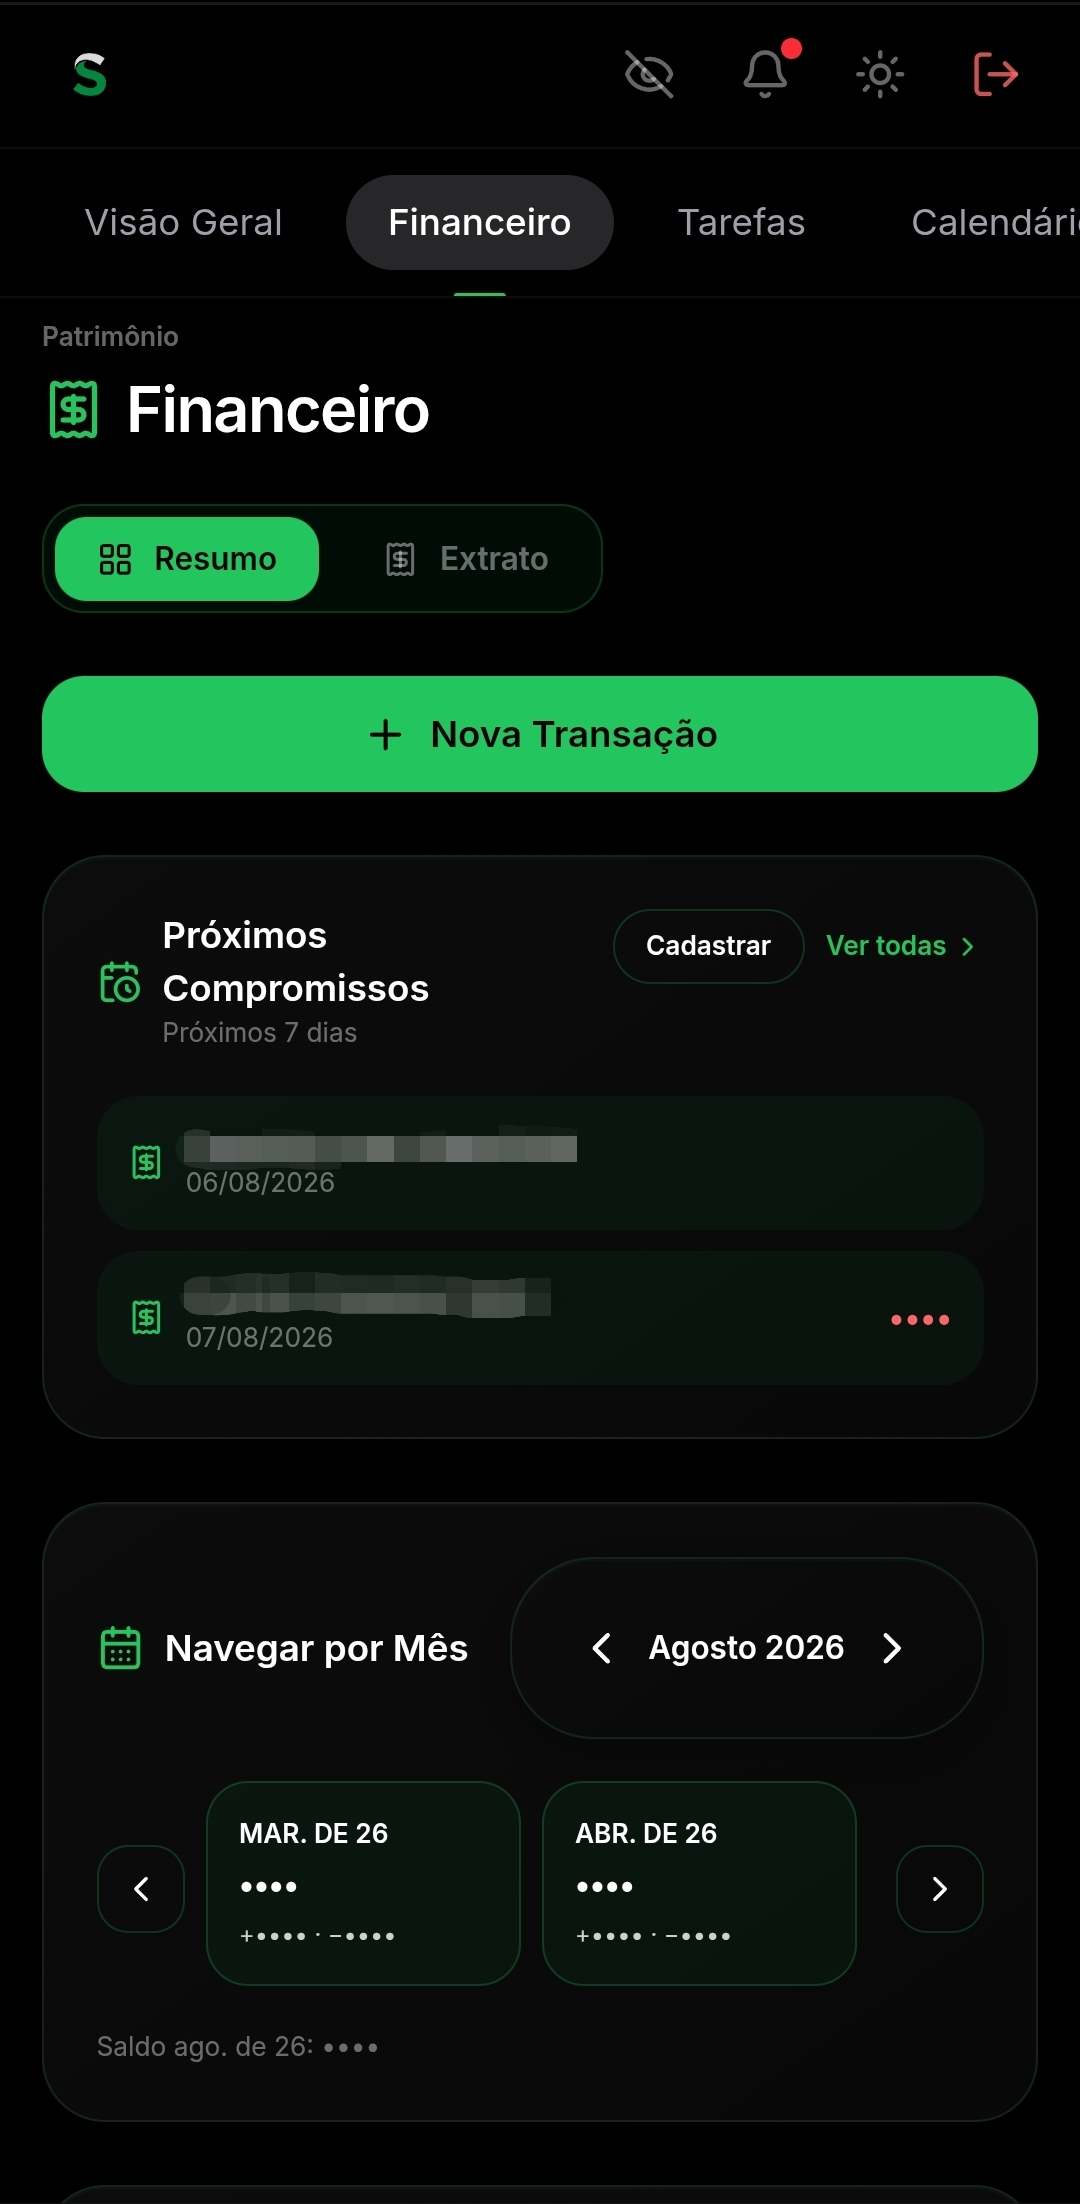
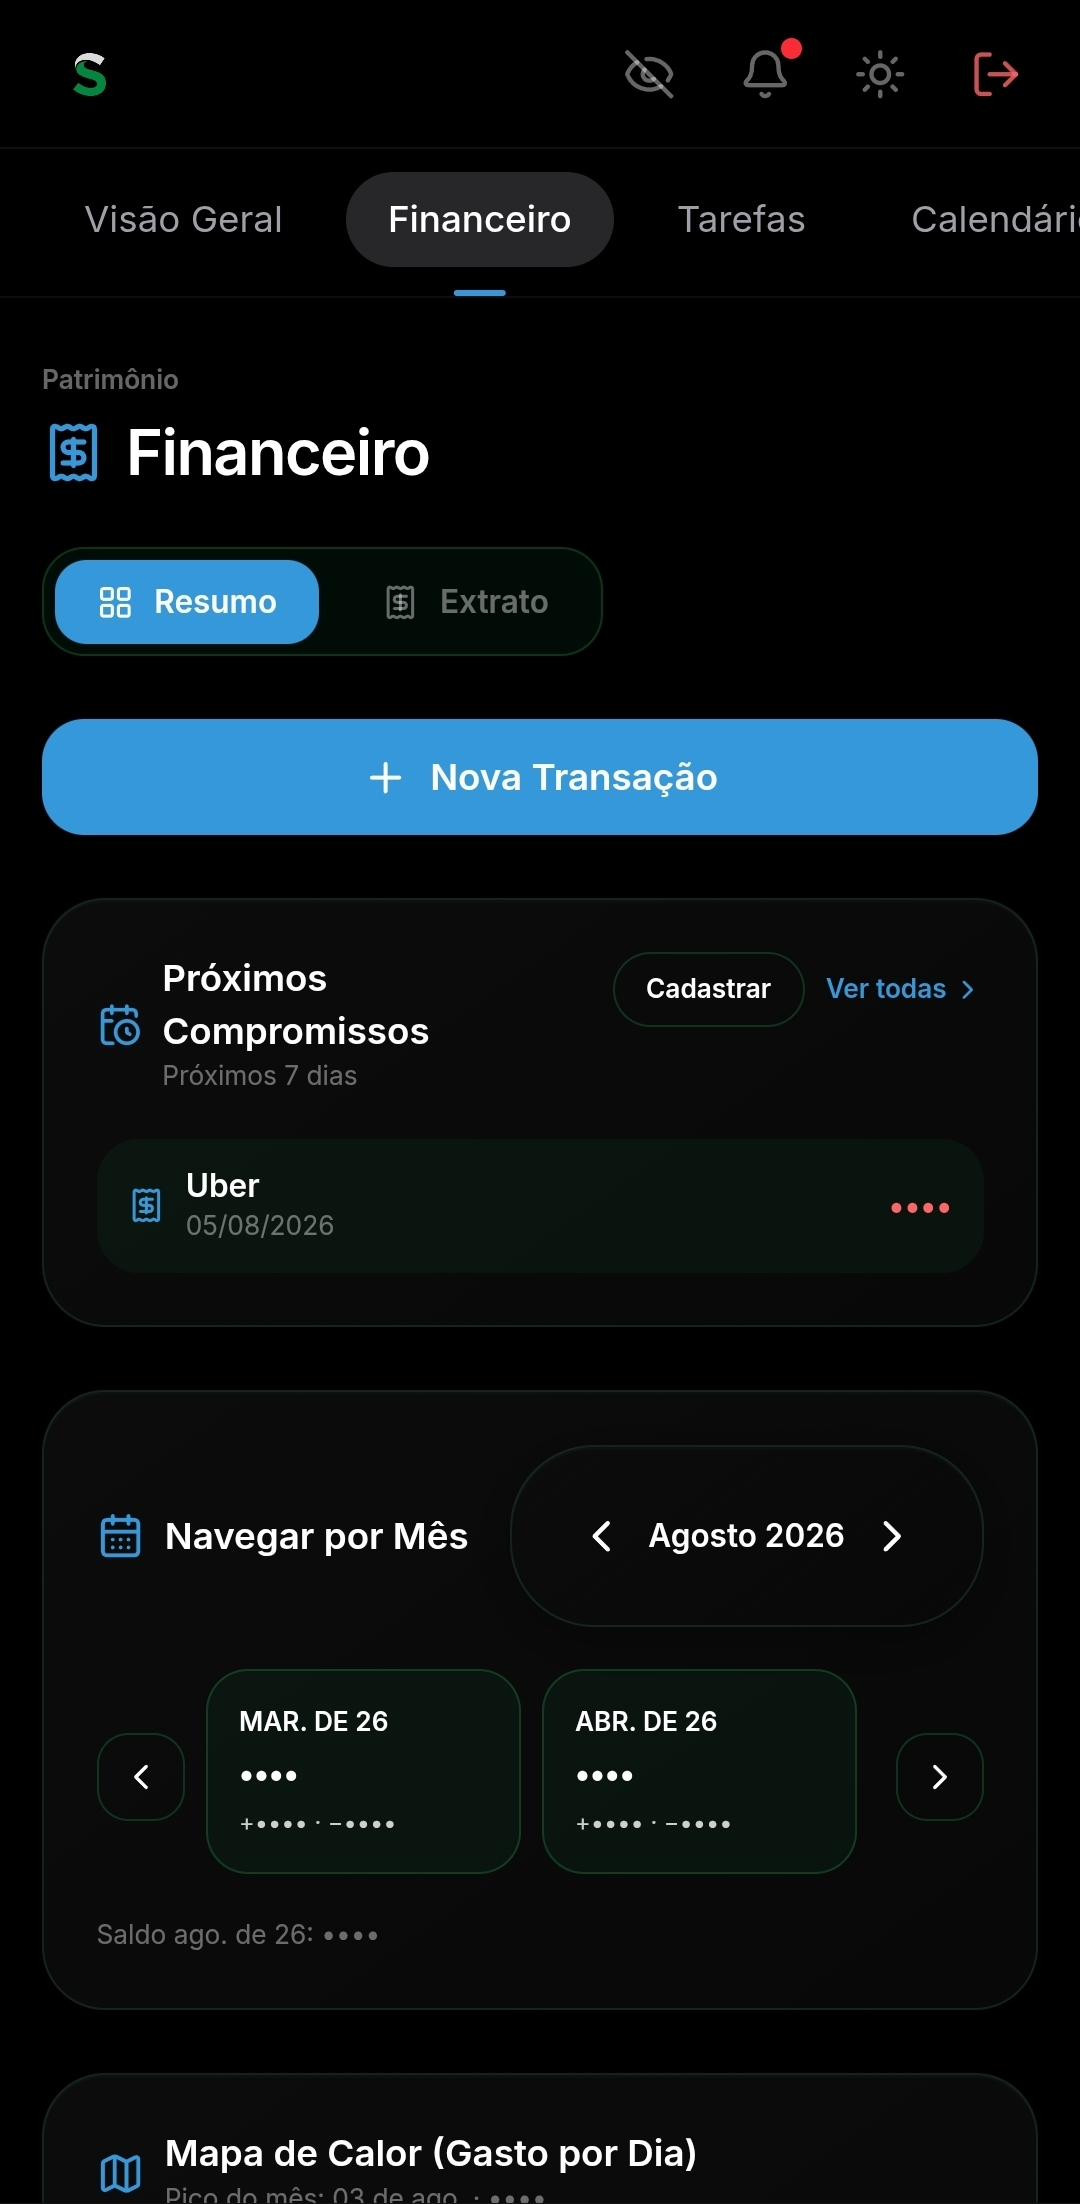
pvnv3

diff --git a/src/SalesPage.tsx b/src/SalesPage.tsx
@@ -177,7 +177,7 @@ export default function SalesPage() {
     },
     {
       q: 'Como recebo o acesso?',
-      a: 'Assim que o pagamento for confirmado pela Cakto, você recebe um e-mail com seu login para acessar o app em app.sommarapp.com.br.',
+      a: 'Assim que o pagamento for confirmado pela Cakto, você recebe um e-mail com o link de acesso e os dados de login. Verifique também a pasta de spam.',
     },
   ];
 
